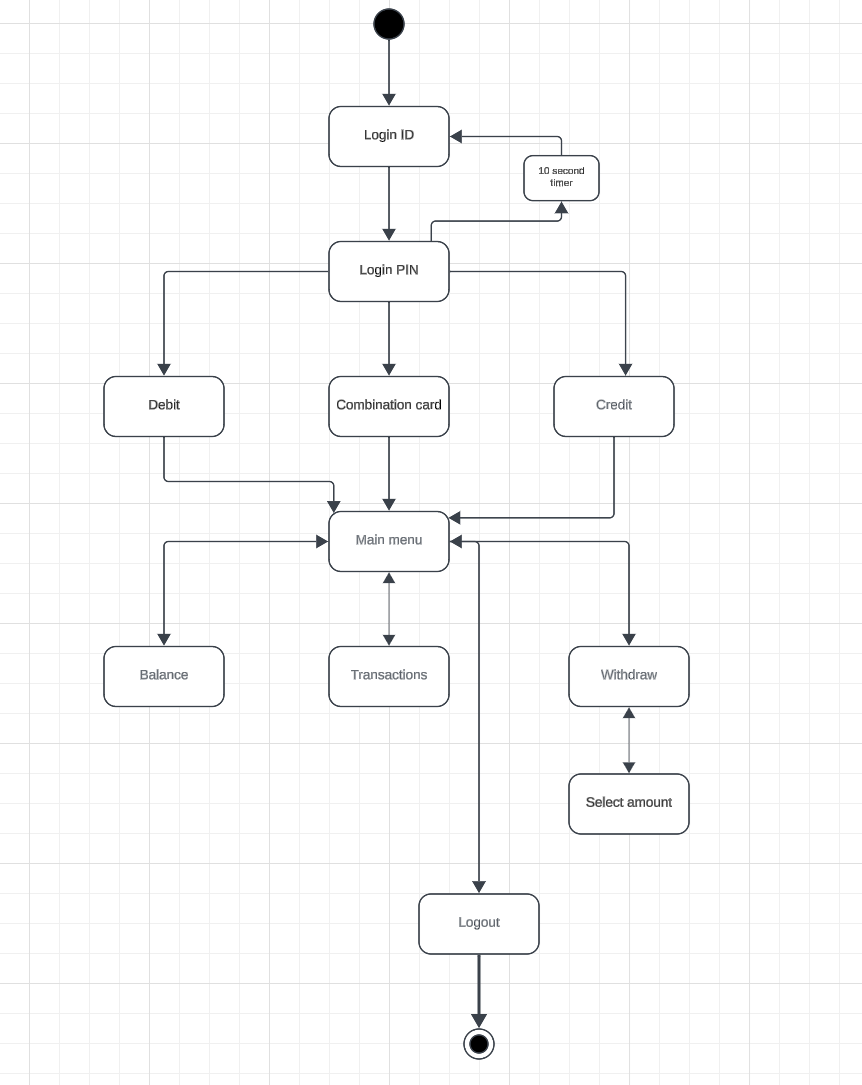
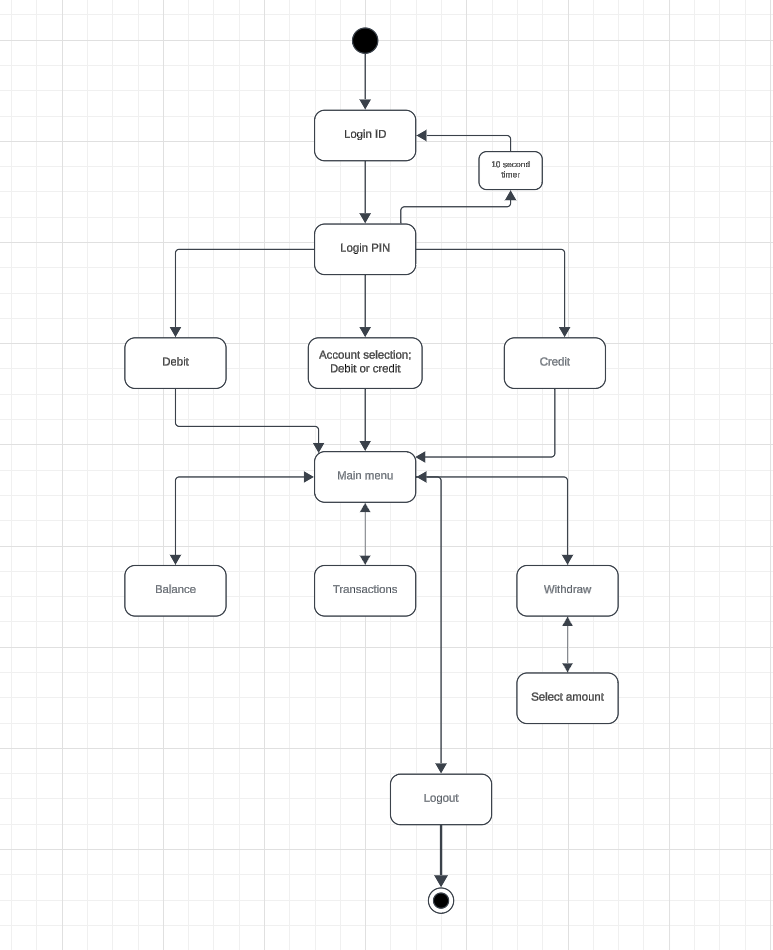
Readme päivitety

diff --git a/README.md b/README.md
@@ -1,8 +1,8 @@
-# Bankautomat simulator project (group 11)
-This was our second information technology project in Oulu University of Applied Sciences. The goal was to create an bank automat -simulator.
+# Bankautomat simulator project
+This was our second information technology project in Oulu University of Applied Sciences. The goal was to create an bank automat simulator and to get familiar with QT framework, node.js/express.js and MySQL -databases in real world like project. Documentation and diagrams were also key part of this software development application project.
 
 ## How the app works
-At the start application prompts for cardnumber. After number is succesfully entered PIN-code input prompt appears and user needs to type 4 number PIN within 10 second time limit.
+At the start application prompts for cardId. After the ID is succesfully entered PIN-code input prompt appears and user needs to type 4 number PIN within 10 second time limit. If user types wrong PIN-code three times in a row card is locked and needs to be reactivated by the sysadmin.
 
 User has a possibility to hold both credit and debit cards as well as combination of them. If number for combination card is entered app prompts which one user likes to use.
 
@@ -16,27 +16,25 @@ Below is the state diagram for project which demonstrates basic functionality of
 ## Technologies
 This project is build on top of following technologies:
 - Frontend: QT-framework / C++
-- Backend: REST API, Node.js/Express.js
-- Database: MySQL database made from scratch
+- Backend: REST API; Node.js/Express.js
+- Database: MySQL database
 
 ## System requirements
-The system includes the following system components:
+The system includes the following components:
 
-- The actual computer of the target system (i.e., the ATM), which has an operating system and security software.
+- The actual computer of the target system (i.e., the ATM), which has an Windows operating system.
 
-- A server computer that runs the latest Windows or Linux operating system and a security software package. The server runs the database solution selected for the product.
+- A server computer that runs the latest Windows or Linux operating system. The server runs the MySQL database selected for the product.
 
 - A computer network for data transmission (using http or https protocol) between the ATM's computer and the server.
 
-- The product uses a REST (Representational State Transfer) interface solution between the ATM application and the database.
-
-- Virtual cards, which are the system's bank cards.
+- The product uses a REST API node.js/express.js in between the ATM application and the database.
 
 ### ER-Diagram for the database
 ![ER-diagram](er-diagram.png)
 
-## Made by following students:
-- Ville-Pekka Alavuotunki - Login front/back, select account, main menu.
+## Developers and their main responsibilities:
+- [Ville-Pekka Alavuotunki](https://github.com/alavuvi) - Login system, account selection for combination card, main menu and timerManager for session timeouts. Worked with both front- and backend for the previously listed components. Also worked on MySQL database, diagrams and documentation.
 - Aapo Pähti
 - Kata Niva
 - Tuure Väänänen
